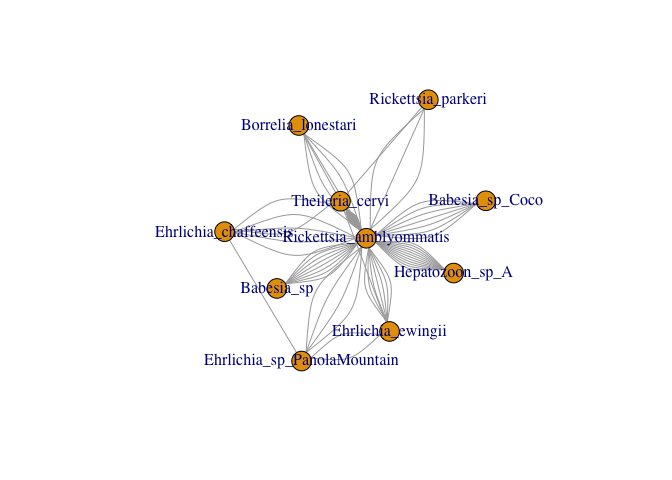
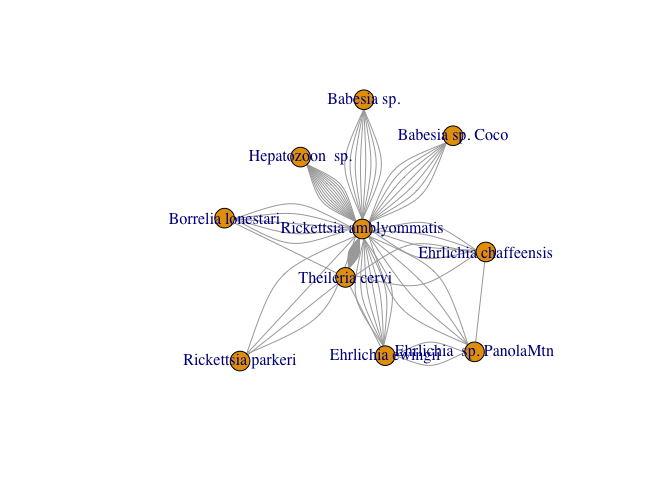
resized coinfection figure

Changed region(s): [[0.2188, 0.1875, 0.8438, 0.7812]]

diff --git a/aa_coinfection_network.md b/aa_coinfection_network.md
@@ -1,4 +1,4 @@
-aa_path_network
+Amblyomma americanum microorganism coinfeciton network
 ================
 Kimberly Ledger
 3/11/2022
@@ -59,32 +59,49 @@ adj_mat
 ```
 
     ## 10 x 10 sparse Matrix of class "dgCMatrix"
-    ##                                                   
-    ## Borrelia_lonestari          . .  1 . . . .  . .  5
-    ## Babesia_sp                  . .  . . . . .  . .  8
-    ## Theileria_cervi             1 .  . 1 1 . 2  . . 31
-    ## Ehrlichia_ewingii           . .  1 . . . .  . 2  7
-    ## Rickettsia_parkeri          . .  1 . . . .  . .  3
-    ## Babesia_sp_Coco             . .  . . . . .  . .  7
-    ## Ehrlichia_chaffeensis       . .  2 . . . .  . 1  4
-    ## Hepatozoon_sp_A             . .  . . . . .  . . 12
-    ## Ehrlichia_sp_PanolaMountain . .  . 2 . . 1  . .  4
-    ## Rickettsia_amblyommatis     5 8 31 7 3 7 4 12 4  .
+    ##                                                
+    ## Borrelia lonestari       . .  1 . . . .  . .  5
+    ## Babesia sp.              . .  . . . . .  . .  8
+    ## Theileria cervi          1 .  . 1 1 . 2  . . 31
+    ## Ehrlichia ewingii        . .  1 . . . .  . 2  7
+    ## Rickettsia parkeri       . .  1 . . . .  . .  3
+    ## Babesia sp. Coco         . .  . . . . .  . .  7
+    ## Ehrlichia chaffeensis    . .  2 . . . .  . 1  4
+    ## Hepatozoon  sp.          . .  . . . . .  . . 12
+    ## Ehrlichia  sp. PanolaMtn . .  . 2 . . 1  . .  4
+    ## Rickettsia amblyommatis  5 8 31 7 3 7 4 12 4  .
 
 try making a prettier plot - weight the connections by coinfections
 
 ``` r
 plot(network, vertex.label.color="black", 
      vertex.label.cex=.5,vertex.label.dist=0.2, 
-     edge.curved=0.5, edge.width = edge.betweenness(network),
+     edge.curved=0.5, edge.width = E(network)$weight,
      layout=layout_in_circle(network))
 ```
 
 ![](aa_coinfection_network_files/figure-gfm/unnamed-chunk-8-1.png)<!-- -->
 
 ``` r
-#plot(network, vertex.label.color="black", 
-#     vertex.label.cex=.5,vertex.label.dist=0.2, 
-#     edge.curved=0.5, edge.width = edge.betweenness(network), edge.color = edge.betweenness(network),
-#     layout=layout_in_circle(network))
+g2 = simplify(network)
+
+E(g2)$weight = sapply(E(g2), function(e) { 
+    length(all_shortest_paths(network, from=ends(g2, e)[1], to=ends(g2, e)[2])$res) } )
+
+coinfection_plot <- plot(g2, 
+     vertex.size = 15, vertex.color = "#486090", vertex.frame.color = "black",
+     vertex.label.cex=.8, vertex.label.dist= 2,
+     vertex.label.color = "black",
+     vertex.label.font = 4, 
+     vertex.label.degree = c(-pi/2,-pi/2,-pi/2, -pi/2,-pi/2,-pi/2, pi/2, pi/2, pi/2 , pi/2),
+     edge.curved=0.5, edge.width = E(g2)$weight/2.5, edge.color = "#f0a860",
+     layout=layout_in_circle(network))
 ```
+
+![](aa_coinfection_network_files/figure-gfm/coinfection-1.png)<!-- -->
+
+``` r
+coinfection_plot
+```
+
+    ## NULL
